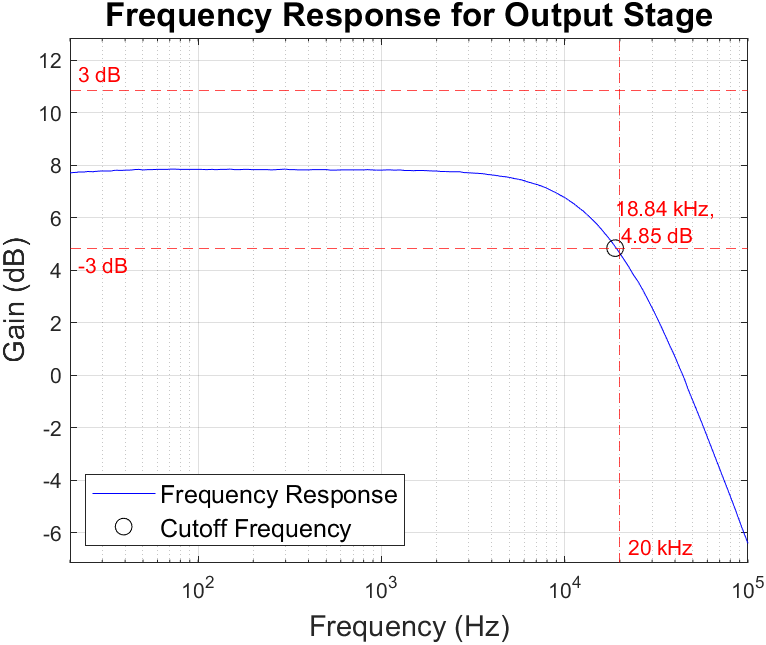
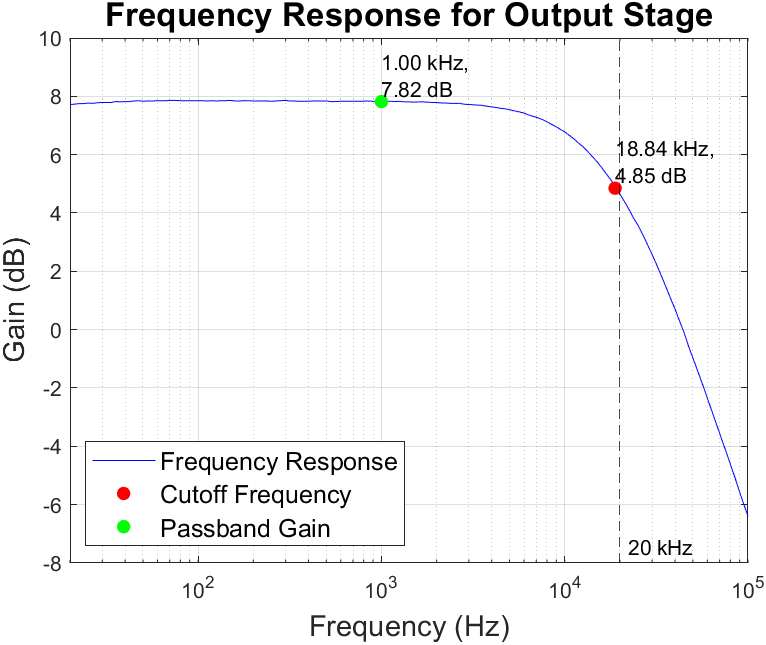
analog frontend figures

diff --git a/gitfigures/system_design/analog_frontend/amplifier_frequency_response_test/pre_input_figure.m b/gitfigures/system_design/analog_frontend/amplifier_frequency_response_test/pre_input_figure.m
@@ -1,57 +1,59 @@
-clc;close all; clear;
+clc; close all; clear;
 
 % Read the data
-data = readmatrix('pre_output.csv');
+data = readmatrix('pre_input.csv');
 freq = data(:, 2);   % Frequency in Hz
 gain = data(:, 4);   % Gain in dB
 
-% Find the gain at 20 Hz (or the closest point to 20 Hz)
+% --- Find gain at 20 Hz (initial reference point) ---
 [~, idx_20Hz] = min(abs(freq - 20));
 initial_gain_20Hz = gain(idx_20Hz);
 
-% Calculate the target gain (3 dB lower)
-target_dB = 7.85 - 3;
+% --- Cutoff frequency: 3 dB down from 7.85 dB ---
+target_dB = -7.85 - 3;
 
-% Find the frequency where the gain is equal to target_dB
+% Find the frequency where the gain is closest to the target
 [~, idx_target] = min(abs(gain - target_dB));
 target_freq = freq(idx_target);
 
-% Plot the main graph
+% --- Find gain at 1 kHz ---
+[~, idx_1kHz] = min(abs(freq - 1000));
+gain_1kHz = gain(idx_1kHz);
+freq_1kHz = freq(idx_1kHz);
+
+% --- Plotting ---
 figure;
-g = semilogx(freq, gain, 'b-');
+g = semilogx(freq, gain, 'b-', 'DisplayName', 'Frequency Response');
 hold on;
 
-% Plot the dot at the target frequency and gain
-p = semilogx(target_freq, target_dB, 'blacko', 'MarkerSize', 8, 'DisplayName', 'Cut-off frequency');
+% Plot cutoff frequency point
+p = semilogx(target_freq, target_dB, 'ro', 'MarkerSize', 6, 'MarkerFaceColor', 'red', 'DisplayName', 'Cutoff Frequency');
+
+% Plot gain at 1 kHz
+h = semilogx(freq_1kHz, gain_1kHz, 'go', 'MarkerSize', 6, 'MarkerFaceColor', 'green', 'DisplayName', 'Passband Gain');
 
 % Axes and labels
 xlabel('Frequency (Hz)', 'FontSize', 14);
 ylabel('Gain (dB)', 'FontSize', 14);
 title('Frequency Response for Output Stage', 'FontSize', 16);
 xlim([20 100000]);
+%ylim([-8 10]);
 grid on;
-%xticks([20 1e3 2e4]);
-%xticklabels({'20 Hz', '1 kHz', '20 kHz'});
-xline(20000, '--r', '20 kHz', ...
+
+% Reference line at 20 kHz
+xline(20000, '--black', '20 kHz', ...
     'LabelOrientation', 'horizontal', ...
     'LabelVerticalAlignment', 'bottom', ...
     'LabelHorizontalAlignment', 'right');
-yline(7.85 - 3, '--r', '-3 dB', ...
-    'LabelOrientation', 'horizontal', ...
-    'LabelVerticalAlignment', 'bottom', ...
-    'LabelHorizontalAlignment', 'left');
-yline(7.85 + 3, '--r', '3 dB', ...
-    'LabelOrientation', 'horizontal', ...
-    'LabelVerticalAlignment', 'top', ...
-    'LabelHorizontalAlignment', 'left');
-legend([g, p], 'Frequency Response', 'Cutoff Frequency', 'Location', 'southwest', 'Fontsize', 12);
-legend show;
 
-% Convert target frequency to kHz for labeling
+% Legend
+legend([g, p, h], 'Location', 'southwest', 'FontSize', 12);
+
+% Label for cutoff frequency
 target_freq_kHz = target_freq / 1000;
+label_text = sprintf('%.2f kHz,\n%.2f dB', target_freq_kHz, target_dB);
+text(target_freq, target_dB, label_text, 'VerticalAlignment', 'bottom', 'Color', 'black');
 
-% Create the combined label with dB and kHz
-label_text = sprintf('%.2f kHz, \n %.2f dB', target_freq_kHz, target_dB);
-
-% Add the label at the point
-text(target_freq, target_dB, label_text, 'VerticalAlignment', 'bottom', 'Color', 'red');
+% Label for 1 kHz point
+label_1kHz = sprintf('1.00 kHz,\n%.2f dB', gain_1kHz);
+text(freq_1kHz, gain_1kHz, label_1kHz, 'VerticalAlignment', 'bottom', 'Color', 'black');
